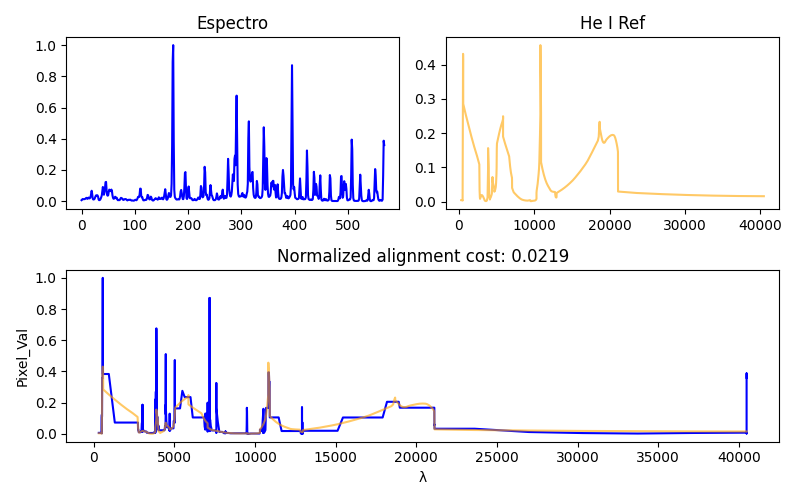
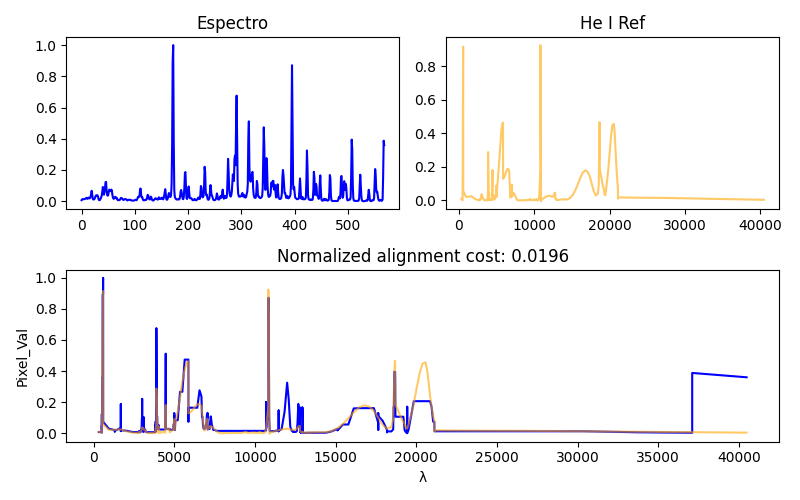
d

diff --git a/DTW.py b/DTW.py
@@ -2,12 +2,14 @@ from NIST_Table_Interactor import NIST_Table_Interactor
 
 from astropy.io import fits
 import os
+from enum import Enum
 
 #from fastdtw import fastdtw
 #from scipy.spatial.distance import euclidean
 import matplotlib.pyplot as plt
 import numpy as np
 from scipy.ndimage import gaussian_filter1d
+from scipy.signal import savgol_filter
 
 def getfileData(filepath):    
     hdul = fits.open(filepath) 
@@ -18,9 +20,6 @@ def getfileData(filepath):
         headers = hdul[0].header
         data = hdul[0].data
     return data
-
-def gaussian(x, max_value, mean, std_deviation):
-    return max_value * np.exp(-((x - mean) ** 2) / (2 * std_deviation ** 2))
 
 def dp(dist_mat):
     """
@@ -98,28 +97,43 @@ filter = "He I"
 # filter = "Rb II"
 df = nisttr.get_dataframe(filter=filter)
 #df = nisttr.get_dataframe()
+
+class Processor:
+    class FuntionType(Enum):
+        LINEAL = "LINEAL"
+        GAUSSIAN = "GAUSSIAN"
+        SG = "SG"
+    def get_procesed(reference, target, tipe = [FuntionType.LINEAL]):
+        x2_equalized_lineal = np.interp(np.linspace(0, 1, len(x1)), np.linspace(0, 1, len(x2)), x2)
+
+
 SIGMA = 7
 x2 = df['Wavelength(Ams)'].tolist()
 x2_equalized_lineal = np.interp(np.linspace(0, 1, len(x1)), np.linspace(0, 1, len(x2)), x2)
 y2 = df['Intensity'].tolist()
 y2_equalized_lineal = np.interp(np.linspace(0, 1, len(y1)), np.linspace(0, 1, len(y2)), y2)
 y2_equalized_gaussian = gaussian_filter1d(y2_equalized_lineal, sigma=SIGMA)
+y2_equalized_SG = savgol_filter(y2_equalized_lineal, window_length=10, polyorder=4)
+
 min_y2 = np.min(y2)
 max_y2 = np.max(y2)
 nor_y2 = (y2 - min_y2) / (max_y2 - min_y2)
 nor_y2_equalized_lineal = (y2_equalized_lineal - min_y2) / (max_y2 - min_y2)
 nor_y2_equalized_gaussian = (y2_equalized_gaussian - min_y2) / (max_y2 - min_y2)
+nor_y2_equalized_SG = (y2_equalized_SG - min_y2) / (max_y2 - min_y2)
+
 plt.figure(figsize=(8, 5))
 plt.plot(x2, nor_y2, color="blue", label=f"{filter}")
 #plt.plot(x2_equalized_lineal, nor_y2_equalized_lineal, color="orange", alpha=0.8, label=f"{filter}++")
-plt.plot(x2_equalized_lineal, nor_y2_equalized_gaussian, color="orange", alpha=0.8, label=f"{filter}++")
+#plt.plot(x2_equalized_lineal, nor_y2_equalized_gaussian, color="orange", alpha=0.8, label=f"{filter}++")
+plt.plot(x2_equalized_lineal, nor_y2_equalized_SG, color="orange", alpha=0.8, label=f"{filter}++")
 plt.title(f'{filter} Ref')
 plt.legend()
 # plt.savefig(f"{filter}_interpoladoLineal++.png")
 plt.savefig(f"{filter}_interpoladoGaussiano_SIGMA={SIGMA}++.png")
 plt.show()
 x2 = x2_equalized_lineal # Comentar si no se quiere suavisar
-nor_y2 = nor_y2_equalized_gaussian # Comentar si no se quiere suavisar
+nor_y2 = nor_y2_equalized_SG # Comentar si no se quiere suavisar
 
 # plt.figure(figsize=(8, 5))
 # plt.plot(x1, nor_y1, color="blue", label="Espectro")
